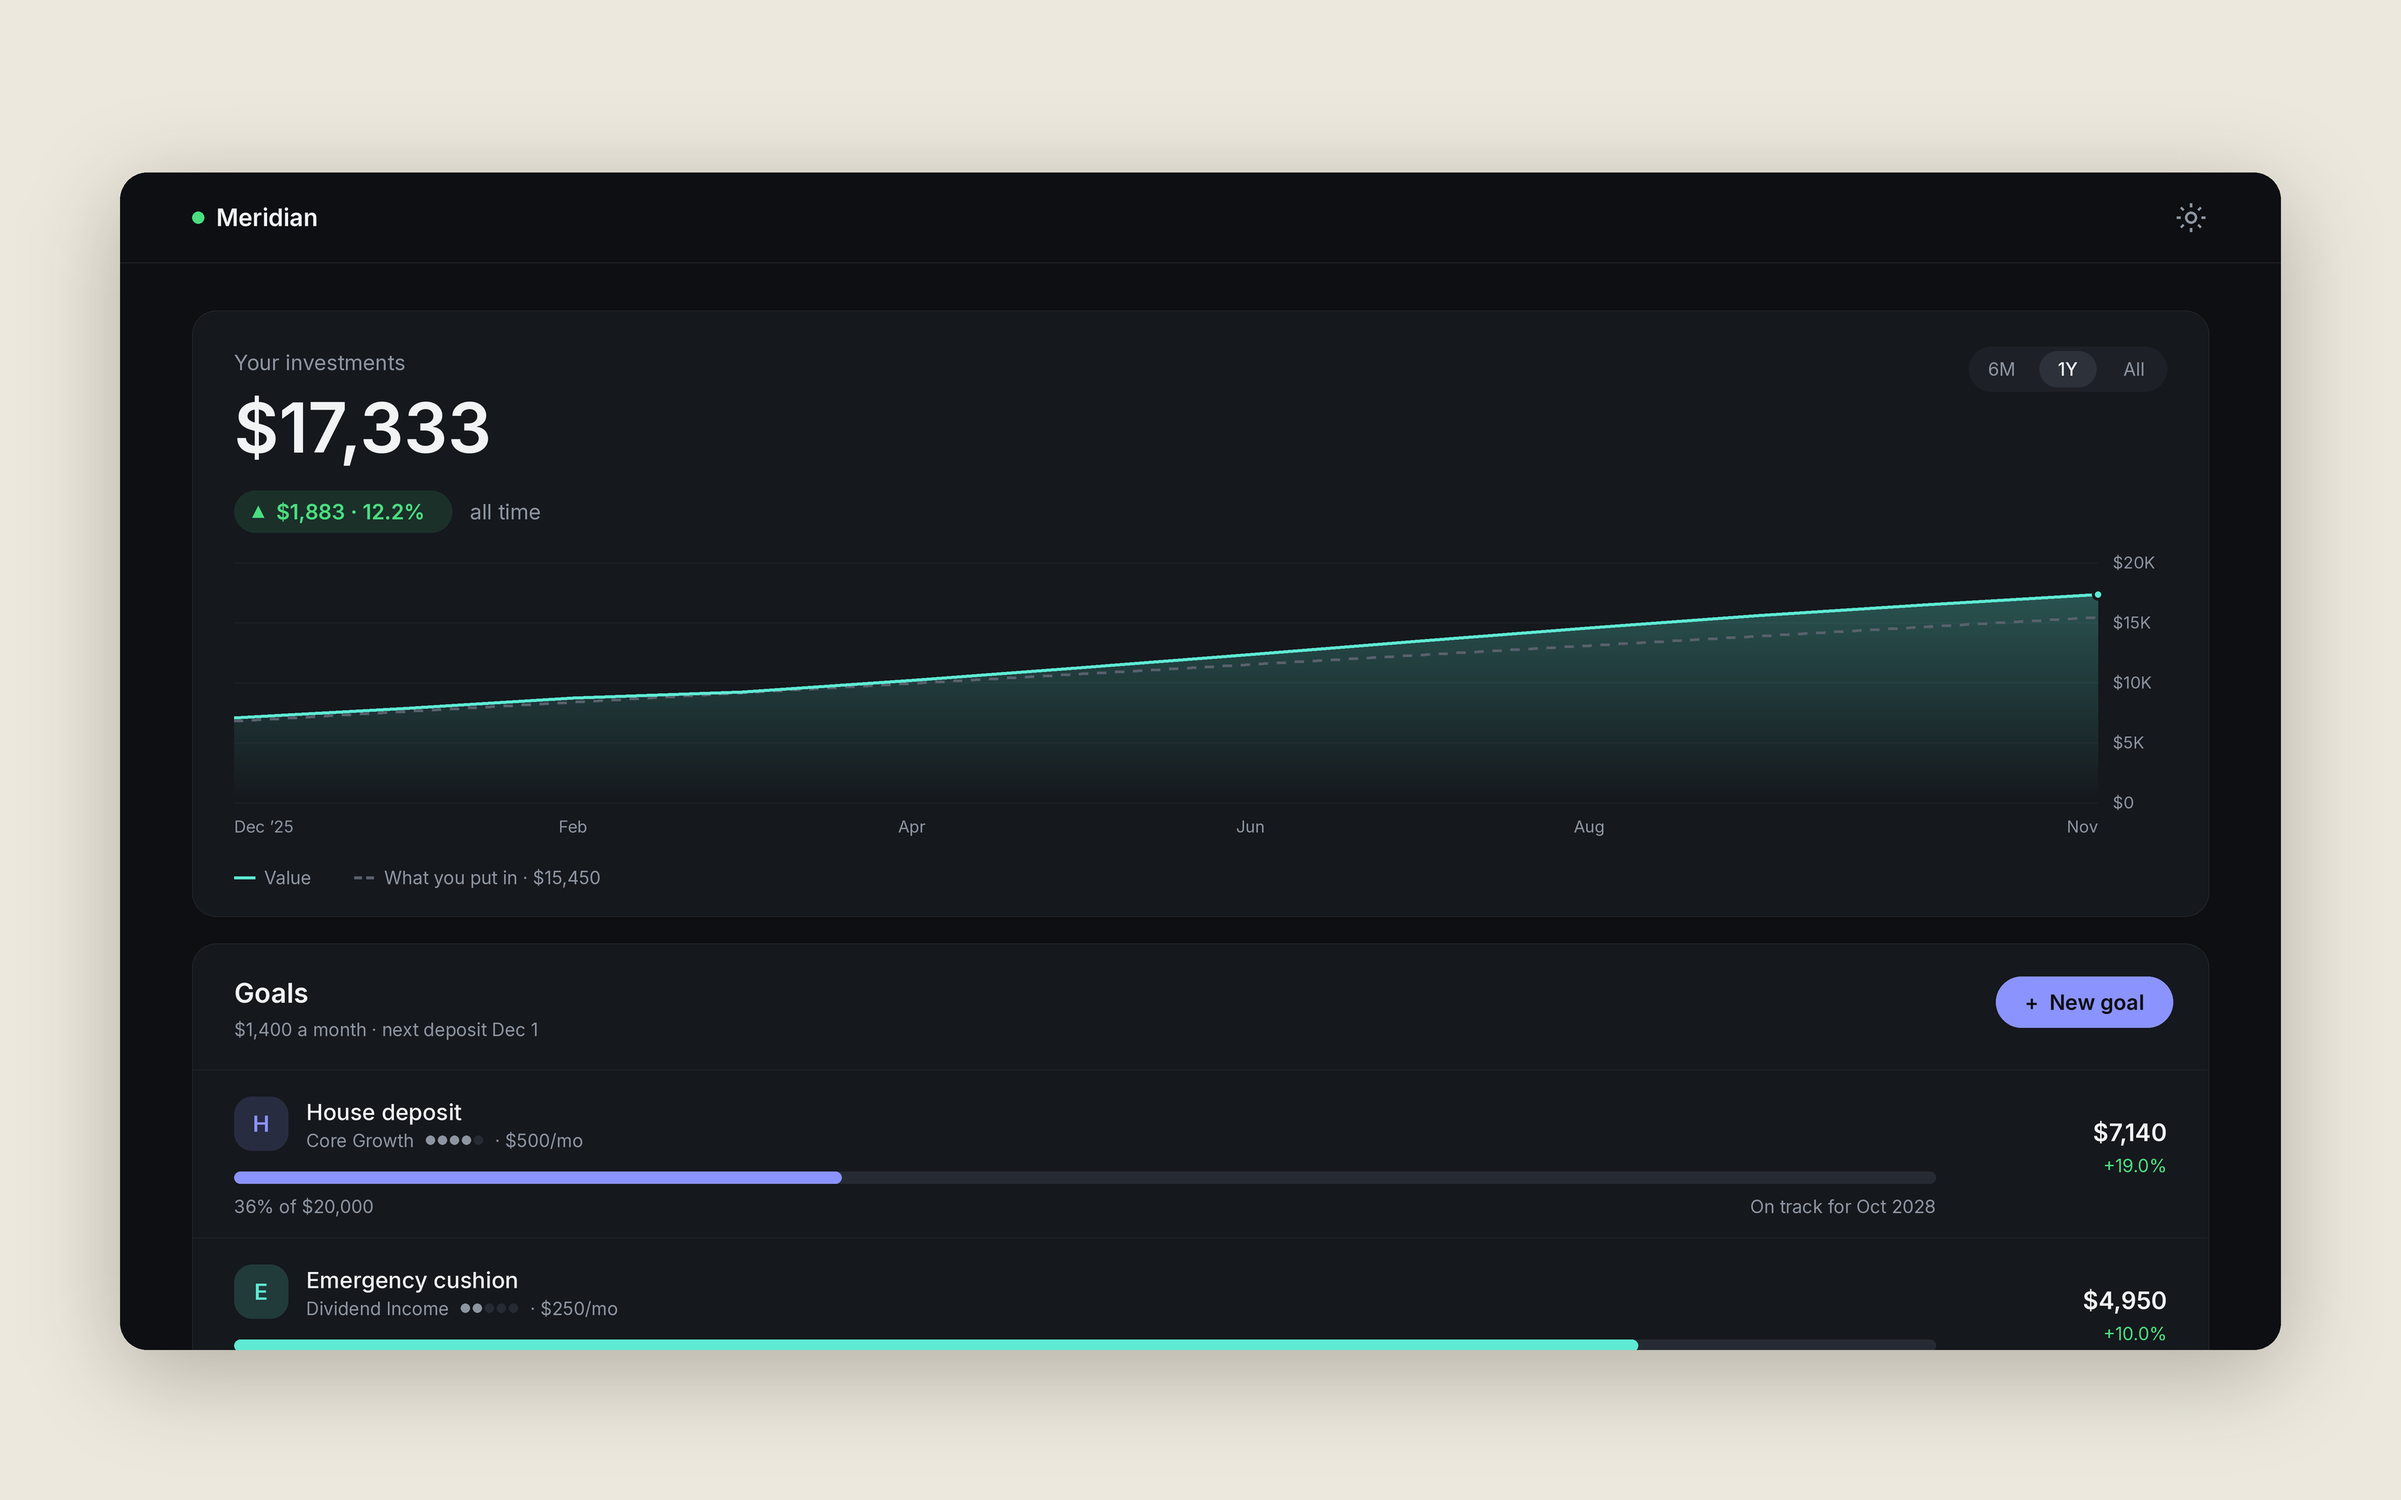
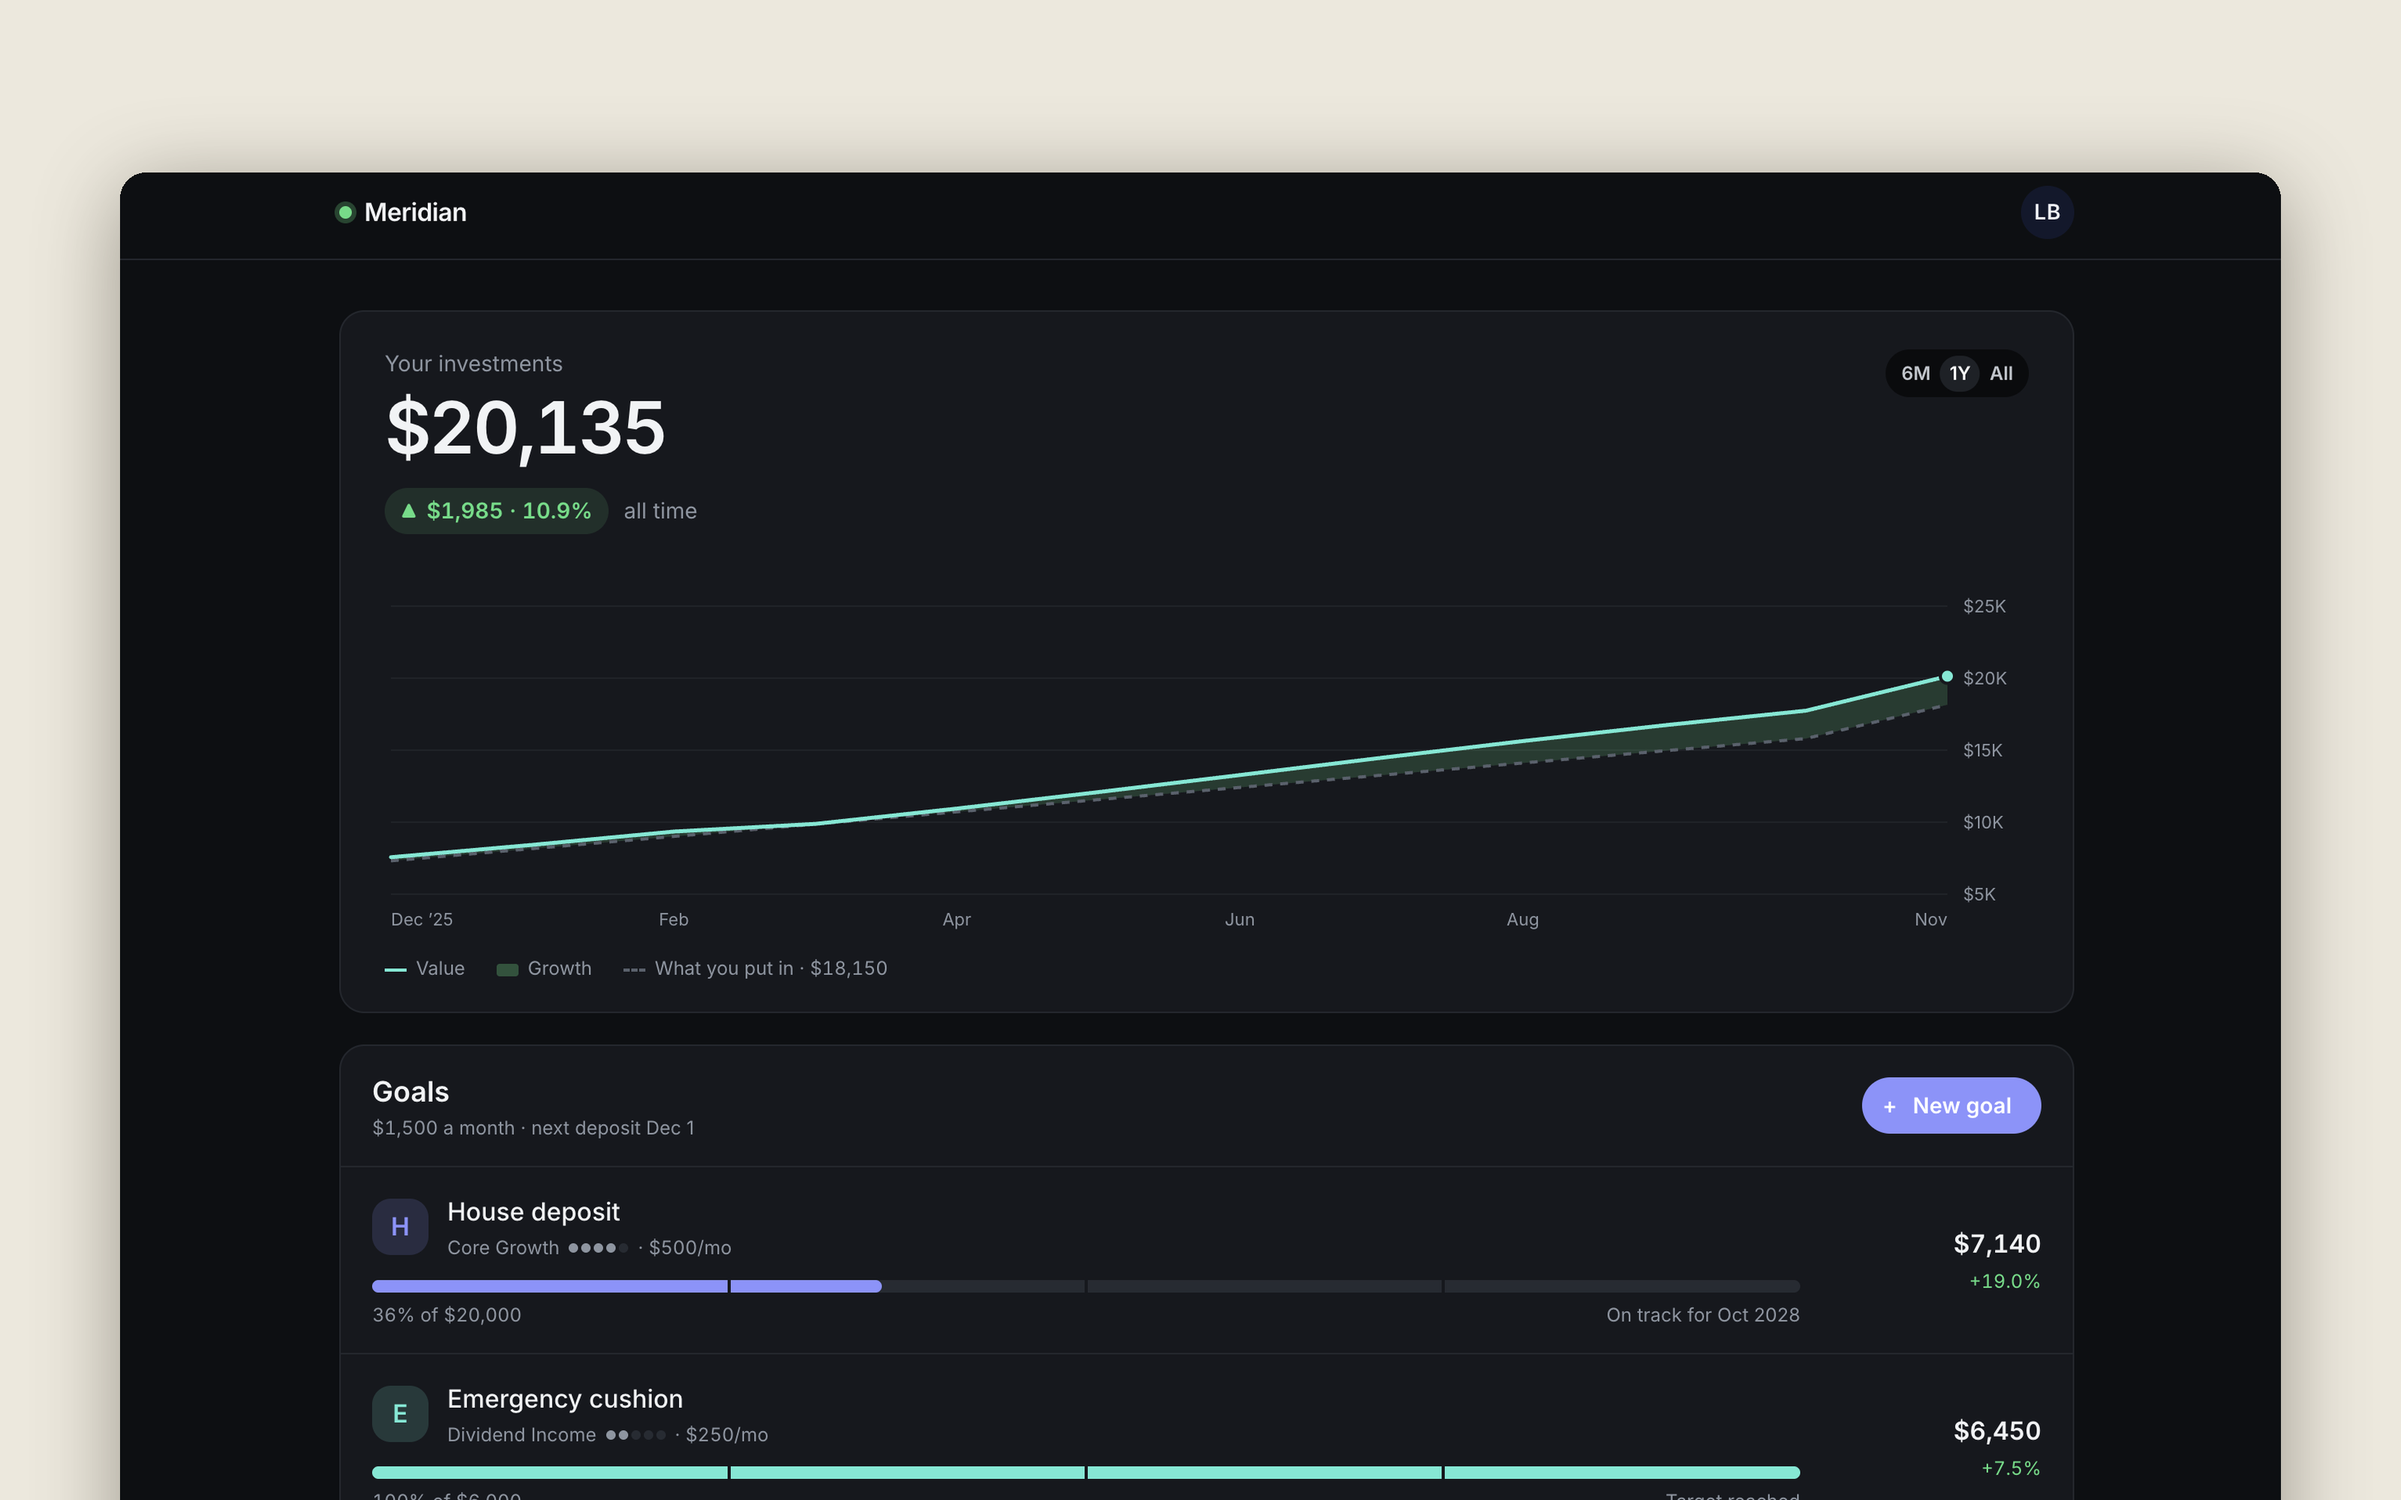
feat: current Meridian cover, 125-test card metric, terminal fix, quieter hero

diff --git a/src/data/site.ts b/src/data/site.ts
@@ -10,8 +10,8 @@ export const site = {
     'Senior frontend engineer building analytics dashboards and data visualization in React & TypeScript.',
   availability: {
     open: true,
-    label: 'Open to Software Engineer and Senior roles · Atlanta or remote',
-    shortLabel: 'Open to Software Engineer and Senior roles',
+    label: 'Open to senior frontend roles · Atlanta or remote',
+    shortLabel: 'Open to senior frontend roles',
   },
   // Shown under the hero as quick credibility, like a logo row.
   previously: ['Intuit Mailchimp', 'Nationwide', 'CapTech', 'LivePerson'],
